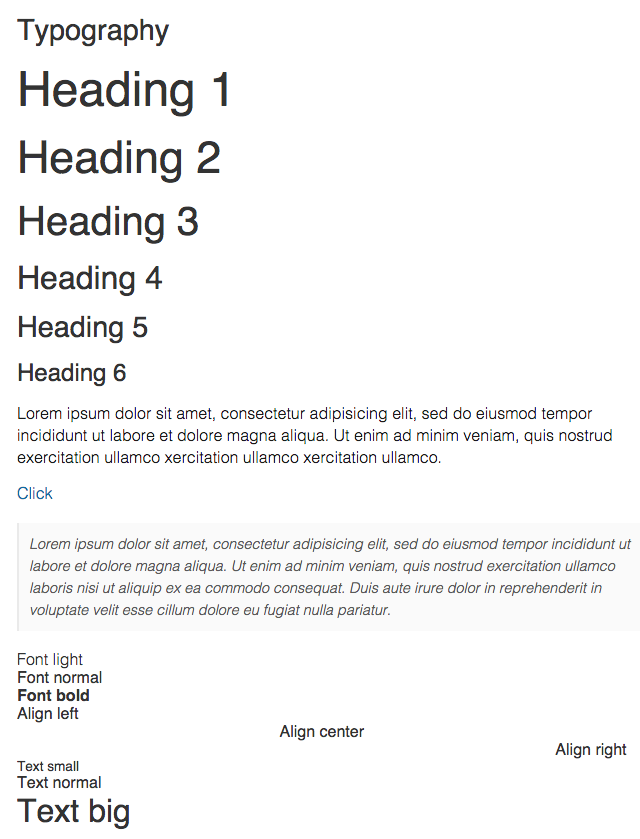
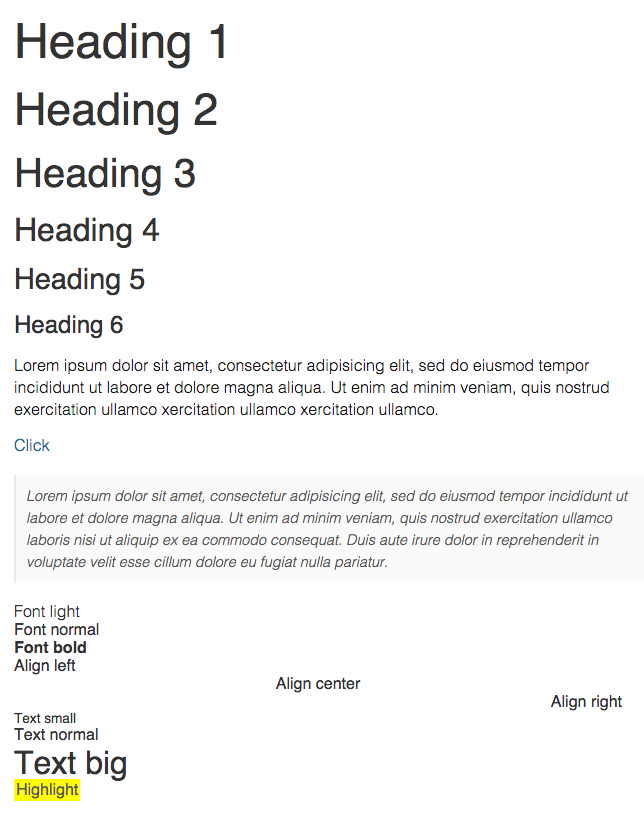
Added highlight component

diff --git a/build/css-mint.min.css b/build/css-mint.min.css
@@ -1,6 +1,6 @@
 /*
-	CSS Mint v1.2.41
+	CSS Mint v1.2.42
     Copyright (c) 2015 Arun Michael Dsouza (amdsouza92@gmail.com)
     Licence: MIT
  */
-img,legend{border:0}.footer,header.header,sub,sup{position:relative}blockquote,dfn{font-style:italic}.footer-list,nav.navbar>ul,ul.breadcrumb,ul.pagination{list-style:none}html{-ms-text-size-adjust:100%;-webkit-text-size-adjust:100%}body{margin:0;padding:0}article,aside,details,figcaption,figure,footer,header,hgroup,main,nav,section,summary{display:block}audio,canvas,progress,video{display:inline-block;vertical-align:baseline}audio:not([controls]){display:none;height:0}[hidden],template{display:none}.logo,.logo h1{display:inline-block;text-decoration:none}a{background:0 0}a:active,a:hover{outline:0}abbr[title]{border-bottom:1px dotted}b,optgroup,strong{font-weight:700}mark{background:#ff0;color:#000}small{font-size:80%}sub,sup{font-size:75%;line-height:0;vertical-align:baseline}sup{top:-.5em}sub{bottom:-.25em}svg:not(:root){overflow:hidden}figure{margin:1em 40px}hr{-moz-box-sizing:content-box;box-sizing:content-box}pre,textarea{overflow:auto}code,kbd,pre,samp{font-family:monospace,monospace;font-size:1em}button,input,optgroup,select,textarea{color:inherit;font:inherit;margin:0}.logo h1,.panel{font-weight:300}button{overflow:visible}button,select{text-transform:none}button,html input[type=button],input[type=reset],input[type=submit]{-webkit-appearance:button;cursor:pointer}button[disabled],html input[disabled]{cursor:default}button::-moz-focus-inner,input::-moz-focus-inner{border:0;padding:0}input{line-height:normal}input[type=checkbox],input[type=radio]{box-sizing:border-box;padding:0}input[type=number]::-webkit-inner-spin-button,input[type=number]::-webkit-outer-spin-button{height:auto}input[type=search]::-webkit-search-cancel-button,input[type=search]::-webkit-search-decoration{-webkit-appearance:none}fieldset{border:1px solid silver;margin:0 2px;padding:.35em .625em .75em}legend{padding:0}.btn,input[type=button],input[type=reset],input[type=submit]{padding:8px 30px;background-color:#f0f0f0;border:1px solid #dadada;font-weight:300;font-size:.92em;color:#444;border-radius:2px}.btn.large{font-size:2em;padding:15px 35px}.btn:active,.btn:focus{outline:0;text-decoration:none}.btn.big{padding:15px 30px;font-size:1.5em}.btn.small{padding:5px 20px;font-size:1em}.btn.default{background-color:#eaeaea;border:1px solid #d3d3d3;color:#555}.btn.default:hover{background-color:#ddd}.btn.primary,input[type=button],input[type=submit]{color:#fff;background-color:#5C9DED;border:1px solid #4B8CDC}.btn.primary:hover,.card-wrapper.photo>.card>.card-content button:hover,input[type=button]:hover,input[type=submit]:hover{background-color:#4B8CDC}.btn.success{color:#fff;background-color:#42CB6F;border:1px solid #3BB85D}.btn.success:hover,.card-wrapper.pricing>.card button:hover{background-color:#3BB85D}.btn.info{color:#fff;background-color:#4EC2E7;border:1px solid #3BB1D9}.btn.info:hover{background-color:#3BB1D9}.btn.warning{background-color:#FCCE54;border:1px solid #F4B941;color:#fff}.btn.warning:hover{background-color:#F4B941}.btn.error,input[type=reset]{color:#fff;background-color:#ED5564;border:1px solid #D9434E}.btn.error:hover,input[type=reset]:hover{background-color:#D9434E}.btn.line{background-color:transparent}.btn.default.line{color:#bbb}.btn.primary.line{color:#5C9DED}.btn.success.line{color:#42CB6F}.btn.info.line{color:#4EC2E7}.btn.warning.line{color:#FCCE54}.btn.error.line{color:#ED5564}.btn.default.line:hover,.btn.error.line:hover,.btn.info.line:hover,.btn.primary.line:hover,.btn.success.line:hover,.btn.warning.line:hover,.footer{color:#fff}.btn.rounded{border-radius:20px}.footer{float:left;width:100%;background-color:#5C9DED;border-top:1px solid #4B8CDC;padding:10px 0}.footer-container{padding:0 10px}footer.footer.grey{background-color:#eaeaea;border-top:1px solid #d3d3d3;color:#4a4a4a}footer.footer.light{background-color:#fff;border-top:1px solid #ccc;color:#4a4a4a}.logo h1,.nav-right nav.navbar>ul>li a{color:#fff}footer.footer.dark{background-color:#202020;border-top:1px solid #000;color:#fff}.footer-list>li>a,.footer-list>li>a:hover{text-decoration:none}header.header{margin:0 auto;background-color:#5C9DED;border-bottom:1px solid #4B8CDC;width:100%;float:right;padding:5px 0}header.header>.nav{max-width:1100px;margin:0 auto}header.header.grey{background-color:#eaeaea;border-bottom:1px solid #d3d3d3}header.header.light{background-color:#fff;border-bottom:1px solid #ccc}header.header.dark{background-color:#202020;border-bottom:1px solid #000}header.fixed{position:fixed;width:100%;z-index:1000}.logo{float:left;padding:10px 20px}.logo h1{font-size:1.2em;padding:0;margin:0;overflow:initial}.container,.panel{display:table;content:''}.logo img{width:40px;height:auto;vertical-align:middle}.gr-row,.panel{width:100%}.header.grey .logo h1:hover,.logo h1:hover,header.header.grey .logo h1,header.header.grey .logo h1:hover,header.header.grey .nav-right nav.navbar>ul>li a,header.header.light .logo h1:hover{color:#4a4a4a}header.header.light .logo h1,header.header.light .nav-right nav.navbar>ul>li a{color:#8a8a8a}header.header.dark .logo h1,header.header.dark .nav-right nav.navbar>ul>li a{color:#fff}.nav-right{float:right;color:#6a6a6a;margin-right:10px;margin-top:4px}.gr-row,[class*=col-span],nav.navbar,nav.navbar>ul,ul.breadcrumb li{float:left}nav.navbar>ul{margin:0;padding:0}nav.navbar>ul>li{margin:0;float:left;padding:10px}nav.navbar>ul>li>a{text-decoration:none;font-size:.9em;border-bottom:2px solid transparent;padding:0}.panel{background-color:#f0f0f0;border-bottom:1px solid #dadada;padding:10px;clear:both;line-height:24px}.panel .panel-footer,.panel .panel-header{padding:0 30px;font-weight:400;font-size:1em}.panel.jumbo .panel-footer,.panel.jumbo .panel-header{padding:10px 30px;font-size:1.4em}.panel .panel-header{border-bottom:1px solid #aaa}.panel .panel-content{padding:0 30px;font-weight:300;font-size:1em;line-height:24px}h1,h2,h3,h4,h5,h6{font-weight:400;margin:15px 0;clear:both}.panel.jumbo .panel-content{padding:10px 30px;font-size:1.4em;line-height:34px}blockquote,p{line-height:22px}.panel .panel-footer{border-top:1px solid #aaa}body,html{font-family:Helvetica,Arial,sans-serif;font-size:16px}h1{font-size:3em}h2{font-size:2.8em}h3{font-size:2.5em}h4{font-size:2em}h5{font-size:1.8em}h6{font-size:1.5em}.font-light,p{font-weight:300}p{font-size:1em;color:#1a1a1a}.font-normal{font-weight:400}.font-bold{font-weight:700}.align-left{text-align:left}.align-right{text-align:right}.align-center{text-align:center}.align-justify{text-align:justify}.text-small{font-size:.85em}.text-normal{font-size:1em}.text-big{font-size:2em}blockquote{margin:20px 0;border-left:2px solid #eaeaea;font-size:.9em;font-weight:300;color:#5a5a5a;background-color:#fafafa;padding:10px}.container{padding:10px;margin:0 auto;max-width:1100px}.ease-in{-webkit-transition:all .2s ease-in;-moz-transition:all .2s ease-in;-o-transition:all .2s ease-in;-ms-transition:all .2s ease-in;transition:all .2s ease-in}.ease-out{-webkit-transition:all .2s ease-out;-moz-transition:all .2s ease-out;-o-transition:all .2s ease-out;-ms-transition:all .2s ease-out;transition:all .2s ease-out}.ease-in-out{-webkit-transition:all .2s ease-in-out;-moz-transition:all .2s ease-in-out;-o-transition:all .2s ease-in-out;-ms-transition:all .2s ease-in-out;transition:all .2s ease-in-out}.col-span-1{width:16.66%}.col-span-2{width:33.33%}.col-span-3{width:50%}.col-span-4{width:66.664%}.col-span-5{width:83.33%}.col-span-6{width:100%}.card-wrapper>.card{background-color:#fcfcfc;position:relative;box-shadow:1px 1px 4px #bbb;padding:10px;line-height:22px;color:#444;font-weight:300;margin-bottom:20px;font-size:.95em}.card-wrapper.info>.card{background-color:#5C9DED;color:#fff;box-shadow:1px 1px 4px #5a5a5a}.card-wrapper.info>.card button{border:1px solid #fff;background-color:transparent;padding:5px 30px;border-radius:2px;display:block;margin:10px auto}.card-wrapper.info>.card button:hover{background-color:#fff;color:#5C9DED}.card-wrapper.info>.card img{width:30%;height:auto;margin:10px auto}.card-wrapper.pricing>.card{background-color:#f4f4f4}.card-wrapper.pricing>.card button{padding:8px 30px;font-weight:300;font-size:.92em;color:#fff;border-radius:2px;background-color:#42CB6F;border:1px solid #3BB85D;margin:20px 0 10px}.card-wrapper.photo>.card{padding:0}.card-wrapper.photo>.card>.card-content{padding:10px}.card-wrapper.photo>.card>.card-content button{padding:8px 30px;font-weight:300;font-size:.92em;border-radius:2px;color:#fff;background-color:#5C9DED;border:1px solid #4B8CDC;margin:20px 0 10px}.card-wrapper.photo>.card img{width:100%;height:auto}body{min-width:1100px;color:#333}a,a:link{color:#0a6da7;text-decoration:none;font-weight:300}a:active,a:focus,a:hover{color:#002F7D}hr{border:none;height:1px;background-color:#dadada;margin:20px 0}.alert{padding:10px;box-shadow:1px 2px 1px #aaa;margin-bottom:10px;width:400px}.alert.default{background-color:#f7f7f7;border:1px solid #d3d3d3;color:#555}.alert.primary{color:#fff;background-color:#7DB1F1;border:1px solid #4B8CDC}.alert.success{color:#fff;background-color:#68D58C;border:1px solid #3BB85D}.alert.info{color:#fff;background-color:#83D4EE;border:1px solid #3BB1D9}.alert.warning{background-color:#FDD876;border:1px solid #F4B941;color:#fff}.alert.error{color:#fff;background-color:#F17783;border:1px solid #D9434E}.alert.line{background-color:transparent}.alert.default.line{color:#bbb}.alert.primary.line{color:#5C9DED}.alert.success.line{color:#42CB6F}.alert.info.line{color:#4EC2E7}.alert.warning.line{color:#FCCE54}.alert.error.line{color:#ED5564}input[type=password],input[type=email],input[type=url],input[type=number],input[type=search],input[type=text]{background-color:#fff;padding:10px;margin:8px 0;border:1px solid #ccc;width:280px;border-radius:2px;font-weight:300;font-size:.88em;color:#444;display:block;-webkit-transition:all .2s ease-in;-moz-transition:all .2s ease-in;-o-transition:all .2s ease-in;-ms-transition:all .2s ease-in;transition:all .2s ease-in}input[type=search]{-webkit-appearance:textfield;-moz-box-sizing:content-box;-webkit-box-sizing:content-box;box-sizing:content-box;border-radius:5px}input[type=search]:focus{width:380px}input[type=password]:focus,input[type=email]:focus,input[type=url]:focus,input[type=number]:focus,input[type=search]:focus,input[type=text]:focus{outline:0;border-color:#5C9DED;box-shadow:0 0 3px #4B8CDC}input.error,input.error:focus{border-color:#ED5564;color:#D9434E;box-shadow:0 0 3px #D9434E}input:disabled{opacity:.6;background-color:#f7f7f7}input:disabled:hover{cursor:not-allowed}input.error::-webkit-input-placeholder{color:#D9434E}input.error:-moz-placeholder{color:#D9434E}input.error::-moz-placeholder{color:#D9434E}input.error:-ms-input-placeholder{color:#D9434E}.file-upload{width:100px;height:100px;background-color:#fafafa;box-shadow:1px 1px 1px #bbb;border-left:1px solid #f4f4f4;border-top:1px solid #f4f4f4;border-radius:2px;display:inline-block;-webkit-transition:all .2s ease-in;-moz-transition:all .2s ease-in;-o-transition:all .2s ease-in;-ms-transition:all .2s ease-in;transition:all .2s ease-in;position:relative;margin-bottom:8px}.file-upload>input[type=file]{opacity:0;width:100px;height:100px}.file-upload:hover{cursor:pointer;box-shadow:1px 1px 4px #bbb}.file-upload>input[type=file]:hover{cursor:pointer}.file-upload>img.upload-icon{position:absolute;width:40px;height:auto;left:28%;top:18%}.file-upload>.upload-label{font-size:.8em;font-weight:300;color:#7a7a7a;position:absolute;left:18%;top:65%;display:inline-block}select{background-color:#5C9DED;color:#fff;font-size:.88em;border:none;height:30px;width:200px}table{border-collapse:collapse;border-spacing:0;border:1px solid #ddd;color:#444;background-color:#fff;margin-bottom:20px}table.info,table.info>tfoot,table.info>thead{border-color:#5C9DED}table.info>thead{background-color:#5C9DED}table.info>thead>tr>th{color:#fff}td,th{padding:10px 22px}thead{background-color:#f3f3f3;border-bottom:1px solid #ddd}thead>tr>th{font-weight:400;text-align:left}tfoot{border-top:1px solid #ddd}tbody,tbody>tr:nth-child(odd){background-color:#fff}tbody>tr>td,tfoot>tr>td{font-weight:300;font-size:.88em}tbody>tr:nth-child(even){background-color:#f7f7f7}table.info tbody>tr:nth-child(even){background-color:#EFF5FD}ul.breadcrumb{display:inline-block;margin:0;padding:0}ul.breadcrumb li a{color:#FFF;display:block;background:#5C9DED;text-decoration:none;position:relative;line-height:20px;padding:0 10px 0 5px;text-align:center;margin-right:23px;font-size:.8em}.thumbnail,ul.pagination>li{display:inline-block}ul.breadcrumb li:nth-child(even) a{background-color:#5C9DED}ul.breadcrumb li a:active,ul.breadcrumb li a:hover{background-color:#4B8CDC}ul.breadcrumb li:nth-child(even) a:before{border-color:#5C9DED #5C9DED #5C9DED transparent}ul.breadcrumb li:nth-child(even) a:after{border-left-color:#5C9DED}ul.breadcrumb li:first-child a{padding-left:15px;-moz-border-radius:4px 0 0 4px;-webkit-border-radius:4px;border-radius:4px 0 0 4px}ul.breadcrumb li:first-child a:before{border:none}ul.breadcrumb li:last-child a{padding-right:15px;-moz-border-radius:0 4px 4px 0;-webkit-border-radius:0;border-radius:0 4px 4px 0}ul.breadcrumb li:last-child a:after{border:none}ul.breadcrumb li a:after,ul.breadcrumb li a:before{content:"";position:absolute;top:0;border:0 solid #5C9DED;border-width:10px;width:0;height:0}ul.breadcrumb li a:before{left:-20px;border-left-color:transparent}ul.breadcrumb li a:active:after,ul.breadcrumb li a:hover:after{border-left-color:#4B8CDC}ul.breadcrumb li a:after{left:100%;border-color:transparent transparent transparent #5C9DED}ul.breadcrumb li a:active:before,ul.breadcrumb li a:hover:before{border-color:#4B8CDC #4B8CDC #4B8CDC transparent}ul.pagination{margin:0;padding:0}ul.pagination>li>a{background-color:#e8e8e8;padding:4px 8px;font-size:.8em;color:#444;border-radius:2px}ul.pagination>li>a:hover{background-color:#d8d8d8}ul.pagination>li.active>a{background-color:#5C9DED;color:#fff}ul.pagination>li.active>a:hover{background-color:#4B8CDC}ul.pagination>li.prev:first-child a{border-top-left-radius:10px;border-bottom-left-radius:10px}ul.pagination>li.next:last-child a{border-top-right-radius:10px;border-bottom-right-radius:10px}.badge{background-color:#eaeaea;font-size:.8em;border-radius:4px;padding:4px}.badge.line:not(.notification){border:1px solid #d3d3d3;color:#bbb;background-color:transparent}.badge.rounded{border-radius:100%}.badge.notification{background-color:#ED5564;color:#fff}.badge.notification.line{background-color:transparent;color:#ED5564;border:1px solid #ED5564}.thumbnail{position:relative}.thumbnail>img{width:100%;height:auto}.thumbnail-title{position:absolute;background-color:rgba(0,0,0,.45);bottom:4px;width:100%;text-align:center;color:#fff;font-weight:300;font-size:.9em;padding:10px 0}
+img,legend{border:0}.footer,header.header,sub,sup{position:relative}blockquote,dfn{font-style:italic}.footer-list,nav.navbar>ul,ul.breadcrumb,ul.pagination{list-style:none}html{-ms-text-size-adjust:100%;-webkit-text-size-adjust:100%}body{margin:0;padding:0}article,aside,details,figcaption,figure,footer,header,hgroup,main,nav,section,summary{display:block}audio,canvas,progress,video{display:inline-block;vertical-align:baseline}audio:not([controls]){display:none;height:0}[hidden],template{display:none}.logo,.logo h1{display:inline-block;text-decoration:none}a{background:0 0}a:active,a:hover{outline:0}abbr[title]{border-bottom:1px dotted}b,optgroup,strong{font-weight:700}mark{background:#ff0;color:#000}small{font-size:80%}sub,sup{font-size:75%;line-height:0;vertical-align:baseline}sup{top:-.5em}sub{bottom:-.25em}svg:not(:root){overflow:hidden}figure{margin:1em 40px}hr{-moz-box-sizing:content-box;box-sizing:content-box}pre,textarea{overflow:auto}code,kbd,pre,samp{font-family:monospace,monospace;font-size:1em}button,input,optgroup,select,textarea{color:inherit;font:inherit;margin:0}.logo h1,.panel{font-weight:300}button{overflow:visible}button,select{text-transform:none}button,html input[type=button],input[type=reset],input[type=submit]{-webkit-appearance:button;cursor:pointer}button[disabled],html input[disabled]{cursor:default}button::-moz-focus-inner,input::-moz-focus-inner{border:0;padding:0}input{line-height:normal}input[type=checkbox],input[type=radio]{box-sizing:border-box;padding:0}input[type=number]::-webkit-inner-spin-button,input[type=number]::-webkit-outer-spin-button{height:auto}input[type=search]::-webkit-search-cancel-button,input[type=search]::-webkit-search-decoration{-webkit-appearance:none}fieldset{border:1px solid silver;margin:0 2px;padding:.35em .625em .75em}legend{padding:0}.btn,input[type=button],input[type=reset],input[type=submit]{padding:8px 30px;background-color:#f0f0f0;border:1px solid #dadada;font-weight:300;font-size:.92em;color:#444;border-radius:2px}.btn.large{font-size:2em;padding:15px 35px}.btn:active,.btn:focus{outline:0;text-decoration:none}.btn.big{padding:15px 30px;font-size:1.5em}.btn.small{padding:5px 20px;font-size:1em}.btn.default{background-color:#eaeaea;border:1px solid #d3d3d3;color:#555}.btn.default:hover{background-color:#ddd}.btn.primary,input[type=button],input[type=submit]{color:#fff;background-color:#5C9DED;border:1px solid #4B8CDC}.btn.primary:hover,.card-wrapper.photo>.card>.card-content button:hover,input[type=button]:hover,input[type=submit]:hover{background-color:#4B8CDC}.btn.success{color:#fff;background-color:#42CB6F;border:1px solid #3BB85D}.btn.success:hover,.card-wrapper.pricing>.card button:hover{background-color:#3BB85D}.btn.info{color:#fff;background-color:#4EC2E7;border:1px solid #3BB1D9}.btn.info:hover{background-color:#3BB1D9}.btn.warning{background-color:#FCCE54;border:1px solid #F4B941;color:#fff}.btn.warning:hover{background-color:#F4B941}.btn.error,input[type=reset]{color:#fff;background-color:#ED5564;border:1px solid #D9434E}.btn.error:hover,input[type=reset]:hover{background-color:#D9434E}.btn.line{background-color:transparent}.btn.default.line{color:#bbb}.btn.primary.line{color:#5C9DED}.btn.success.line{color:#42CB6F}.btn.info.line{color:#4EC2E7}.btn.warning.line{color:#FCCE54}.btn.error.line{color:#ED5564}.btn.default.line:hover,.btn.error.line:hover,.btn.info.line:hover,.btn.primary.line:hover,.btn.success.line:hover,.btn.warning.line:hover,.footer{color:#fff}.btn.rounded{border-radius:20px}.footer{float:left;width:100%;background-color:#5C9DED;border-top:1px solid #4B8CDC;padding:10px 0}.footer-container{padding:0 10px}footer.footer.grey{background-color:#eaeaea;border-top:1px solid #d3d3d3;color:#4a4a4a}footer.footer.light{background-color:#fff;border-top:1px solid #ccc;color:#4a4a4a}.logo h1,.nav-right nav.navbar>ul>li a{color:#fff}footer.footer.dark{background-color:#202020;border-top:1px solid #000;color:#fff}.footer-list>li>a,.footer-list>li>a:hover{text-decoration:none}header.header{margin:0 auto;background-color:#5C9DED;border-bottom:1px solid #4B8CDC;width:100%;float:right;padding:5px 0}header.header>.nav{max-width:1100px;margin:0 auto}header.header.grey{background-color:#eaeaea;border-bottom:1px solid #d3d3d3}header.header.light{background-color:#fff;border-bottom:1px solid #ccc}header.header.dark{background-color:#202020;border-bottom:1px solid #000}header.fixed{position:fixed;width:100%;z-index:1000}.logo{float:left;padding:10px 20px}.logo h1{font-size:1.2em;padding:0;margin:0;overflow:initial}.container,.panel{display:table;content:''}.logo img{width:40px;height:auto;vertical-align:middle}.gr-row,.panel{width:100%}.header.grey .logo h1:hover,.logo h1:hover,header.header.grey .logo h1,header.header.grey .logo h1:hover,header.header.grey .nav-right nav.navbar>ul>li a,header.header.light .logo h1:hover{color:#4a4a4a}header.header.light .logo h1,header.header.light .nav-right nav.navbar>ul>li a{color:#8a8a8a}header.header.dark .logo h1,header.header.dark .nav-right nav.navbar>ul>li a{color:#fff}.nav-right{float:right;color:#6a6a6a;margin-right:10px;margin-top:4px}.gr-row,[class*=col-span],nav.navbar,nav.navbar>ul,ul.breadcrumb li{float:left}nav.navbar>ul{margin:0;padding:0}nav.navbar>ul>li{margin:0;float:left;padding:10px}nav.navbar>ul>li>a{text-decoration:none;font-size:.9em;border-bottom:2px solid transparent;padding:0}.panel{background-color:#f0f0f0;border-bottom:1px solid #dadada;padding:10px;clear:both;line-height:24px}.panel .panel-footer,.panel .panel-header{padding:0 30px;font-weight:400;font-size:1em}.panel.jumbo .panel-footer,.panel.jumbo .panel-header{padding:10px 30px;font-size:1.4em}.panel .panel-header{border-bottom:1px solid #aaa}.panel .panel-content{padding:0 30px;font-weight:300;font-size:1em;line-height:24px}h1,h2,h3,h4,h5,h6{font-weight:400;margin:15px 0;clear:both}.panel.jumbo .panel-content{padding:10px 30px;font-size:1.4em;line-height:34px}blockquote,p{line-height:22px}.panel .panel-footer{border-top:1px solid #aaa}body,html{font-family:Helvetica,Arial,sans-serif;font-size:16px}h1{font-size:3em}h2{font-size:2.8em}h3{font-size:2.5em}h4{font-size:2em}h5{font-size:1.8em}h6{font-size:1.5em}.font-light,p{font-weight:300}p{font-size:1em;color:#1a1a1a}.font-normal{font-weight:400}.font-bold{font-weight:700}.align-left{text-align:left}.align-right{text-align:right}.align-center{text-align:center}.align-justify{text-align:justify}.text-small{font-size:.85em}.text-normal{font-size:1em}.text-big{font-size:2em}blockquote{margin:20px 0;border-left:2px solid #eaeaea;font-size:.9em;font-weight:300;color:#5a5a5a;background-color:#fafafa;padding:10px}.highlight{background-color:#FFFD02;padding:2px;color:#5a5a5a}.container{padding:10px;margin:0 auto;max-width:1100px}.ease-in{-webkit-transition:all .2s ease-in;-moz-transition:all .2s ease-in;-o-transition:all .2s ease-in;-ms-transition:all .2s ease-in;transition:all .2s ease-in}.ease-out{-webkit-transition:all .2s ease-out;-moz-transition:all .2s ease-out;-o-transition:all .2s ease-out;-ms-transition:all .2s ease-out;transition:all .2s ease-out}.ease-in-out{-webkit-transition:all .2s ease-in-out;-moz-transition:all .2s ease-in-out;-o-transition:all .2s ease-in-out;-ms-transition:all .2s ease-in-out;transition:all .2s ease-in-out}.col-span-1{width:16.66%}.col-span-2{width:33.33%}.col-span-3{width:50%}.col-span-4{width:66.664%}.col-span-5{width:83.33%}.col-span-6{width:100%}.card-wrapper>.card{background-color:#fcfcfc;position:relative;box-shadow:1px 1px 4px #bbb;padding:10px;line-height:22px;color:#444;font-weight:300;margin-bottom:20px;font-size:.95em}.card-wrapper.info>.card{background-color:#5C9DED;color:#fff;box-shadow:1px 1px 4px #5a5a5a}.card-wrapper.info>.card button{border:1px solid #fff;background-color:transparent;padding:5px 30px;border-radius:2px;display:block;margin:10px auto}.card-wrapper.info>.card button:hover{background-color:#fff;color:#5C9DED}.card-wrapper.info>.card img{width:30%;height:auto;margin:10px auto}.card-wrapper.pricing>.card{background-color:#f4f4f4}.card-wrapper.pricing>.card button{padding:8px 30px;font-weight:300;font-size:.92em;color:#fff;border-radius:2px;background-color:#42CB6F;border:1px solid #3BB85D;margin:20px 0 10px}.card-wrapper.photo>.card{padding:0}.card-wrapper.photo>.card>.card-content{padding:10px}.card-wrapper.photo>.card>.card-content button{padding:8px 30px;font-weight:300;font-size:.92em;border-radius:2px;color:#fff;background-color:#5C9DED;border:1px solid #4B8CDC;margin:20px 0 10px}.card-wrapper.photo>.card img{width:100%;height:auto}body{min-width:1100px;color:#333}a,a:link{color:#0a6da7;text-decoration:none;font-weight:300}a:active,a:focus,a:hover{color:#002F7D}hr{border:none;height:1px;background-color:#dadada;margin:20px 0}.alert{padding:10px;box-shadow:1px 2px 1px #aaa;margin-bottom:10px;width:400px}.alert.default{background-color:#f7f7f7;border:1px solid #d3d3d3;color:#555}.alert.primary{color:#fff;background-color:#7DB1F1;border:1px solid #4B8CDC}.alert.success{color:#fff;background-color:#68D58C;border:1px solid #3BB85D}.alert.info{color:#fff;background-color:#83D4EE;border:1px solid #3BB1D9}.alert.warning{background-color:#FDD876;border:1px solid #F4B941;color:#fff}.alert.error{color:#fff;background-color:#F17783;border:1px solid #D9434E}.alert.line{background-color:transparent}.alert.default.line{color:#bbb}.alert.primary.line{color:#5C9DED}.alert.success.line{color:#42CB6F}.alert.info.line{color:#4EC2E7}.alert.warning.line{color:#FCCE54}.alert.error.line{color:#ED5564}input[type=password],input[type=email],input[type=url],input[type=number],input[type=search],input[type=text]{background-color:#fff;padding:10px;margin:8px 0;border:1px solid #ccc;width:280px;border-radius:2px;font-weight:300;font-size:.88em;color:#444;display:block;-webkit-transition:all .2s ease-in;-moz-transition:all .2s ease-in;-o-transition:all .2s ease-in;-ms-transition:all .2s ease-in;transition:all .2s ease-in}input[type=search]{-webkit-appearance:textfield;-moz-box-sizing:content-box;-webkit-box-sizing:content-box;box-sizing:content-box;border-radius:5px}input[type=search]:focus{width:380px}input[type=password]:focus,input[type=email]:focus,input[type=url]:focus,input[type=number]:focus,input[type=search]:focus,input[type=text]:focus{outline:0;border-color:#5C9DED;box-shadow:0 0 3px #4B8CDC}input.error,input.error:focus{border-color:#ED5564;color:#D9434E;box-shadow:0 0 3px #D9434E}input:disabled{opacity:.6;background-color:#f7f7f7}input:disabled:hover{cursor:not-allowed}input.error::-webkit-input-placeholder{color:#D9434E}input.error:-moz-placeholder{color:#D9434E}input.error::-moz-placeholder{color:#D9434E}input.error:-ms-input-placeholder{color:#D9434E}.file-upload{width:100px;height:100px;background-color:#fafafa;box-shadow:1px 1px 1px #bbb;border-left:1px solid #f4f4f4;border-top:1px solid #f4f4f4;border-radius:2px;display:inline-block;-webkit-transition:all .2s ease-in;-moz-transition:all .2s ease-in;-o-transition:all .2s ease-in;-ms-transition:all .2s ease-in;transition:all .2s ease-in;position:relative;margin-bottom:8px}.file-upload>input[type=file]{opacity:0;width:100px;height:100px}.file-upload:hover{cursor:pointer;box-shadow:1px 1px 4px #bbb}.file-upload>input[type=file]:hover{cursor:pointer}.file-upload>img.upload-icon{position:absolute;width:40px;height:auto;left:28%;top:18%}.file-upload>.upload-label{font-size:.8em;font-weight:300;color:#7a7a7a;position:absolute;left:18%;top:65%;display:inline-block}select{background-color:#5C9DED;color:#fff;font-size:.88em;border:none;height:30px;width:200px}table{border-collapse:collapse;border-spacing:0;border:1px solid #ddd;color:#444;background-color:#fff;margin-bottom:20px}table.info,table.info>tfoot,table.info>thead{border-color:#5C9DED}table.info>thead{background-color:#5C9DED}table.info>thead>tr>th{color:#fff}td,th{padding:10px 22px}thead{background-color:#f3f3f3;border-bottom:1px solid #ddd}thead>tr>th{font-weight:400;text-align:left}tfoot{border-top:1px solid #ddd}tbody,tbody>tr:nth-child(odd){background-color:#fff}tbody>tr>td,tfoot>tr>td{font-weight:300;font-size:.88em}tbody>tr:nth-child(even){background-color:#f7f7f7}table.info tbody>tr:nth-child(even){background-color:#EFF5FD}ul.breadcrumb{display:inline-block;margin:0;padding:0}ul.breadcrumb li a{color:#FFF;display:block;background:#5C9DED;text-decoration:none;position:relative;line-height:20px;padding:0 10px 0 5px;text-align:center;margin-right:23px;font-size:.8em}.thumbnail,ul.pagination>li{display:inline-block}ul.breadcrumb li:nth-child(even) a{background-color:#5C9DED}ul.breadcrumb li a:active,ul.breadcrumb li a:hover{background-color:#4B8CDC}ul.breadcrumb li:nth-child(even) a:before{border-color:#5C9DED #5C9DED #5C9DED transparent}ul.breadcrumb li:nth-child(even) a:after{border-left-color:#5C9DED}ul.breadcrumb li:first-child a{padding-left:15px;-moz-border-radius:4px 0 0 4px;-webkit-border-radius:4px;border-radius:4px 0 0 4px}ul.breadcrumb li:first-child a:before{border:none}ul.breadcrumb li:last-child a{padding-right:15px;-moz-border-radius:0 4px 4px 0;-webkit-border-radius:0;border-radius:0 4px 4px 0}ul.breadcrumb li:last-child a:after{border:none}ul.breadcrumb li a:after,ul.breadcrumb li a:before{content:"";position:absolute;top:0;border:0 solid #5C9DED;border-width:10px;width:0;height:0}ul.breadcrumb li a:before{left:-20px;border-left-color:transparent}ul.breadcrumb li a:active:after,ul.breadcrumb li a:hover:after{border-left-color:#4B8CDC}ul.breadcrumb li a:after{left:100%;border-color:transparent transparent transparent #5C9DED}ul.breadcrumb li a:active:before,ul.breadcrumb li a:hover:before{border-color:#4B8CDC #4B8CDC #4B8CDC transparent}ul.pagination{margin:0;padding:0}ul.pagination>li>a{background-color:#e8e8e8;padding:4px 8px;font-size:.8em;color:#444;border-radius:2px}ul.pagination>li>a:hover{background-color:#d8d8d8}ul.pagination>li.active>a{background-color:#5C9DED;color:#fff}ul.pagination>li.active>a:hover{background-color:#4B8CDC}ul.pagination>li.prev:first-child a{border-top-left-radius:10px;border-bottom-left-radius:10px}ul.pagination>li.next:last-child a{border-top-right-radius:10px;border-bottom-right-radius:10px}.badge{background-color:#eaeaea;font-size:.8em;border-radius:4px;padding:4px}.badge.line:not(.notification){border:1px solid #d3d3d3;color:#bbb;background-color:transparent}.badge.rounded{border-radius:100%}.badge.notification{background-color:#ED5564;color:#fff}.badge.notification.line{background-color:transparent;color:#ED5564;border:1px solid #ED5564}.thumbnail{position:relative}.thumbnail>img{width:100%;height:auto}.thumbnail-title{position:absolute;background-color:rgba(0,0,0,.45);bottom:4px;width:100%;text-align:center;color:#fff;font-weight:300;font-size:.9em;padding:10px 0}

diff --git a/demo/Components/index.html b/demo/Components/index.html
@@ -176,6 +176,7 @@
     <div class="text-small">Text small</div>
     <div class="text-normal">Text normal</div>
     <div class="text-big">Text big</div>
+    <span class="highlight">Highlight</span>
     <!-- Typography -->
     <!-- Buttons -->
     <h5 style="margin-top: 50px;">Buttons</h5>

diff --git a/src/css/typography.css b/src/css/typography.css
@@ -108,6 +108,11 @@ blockquote {
     padding: 10px;
 }
 
+.highlight {
+	background-color: #FFFD02;
+    padding: 2px;
+    color: #5a5a5a;
+}
 
 
 
